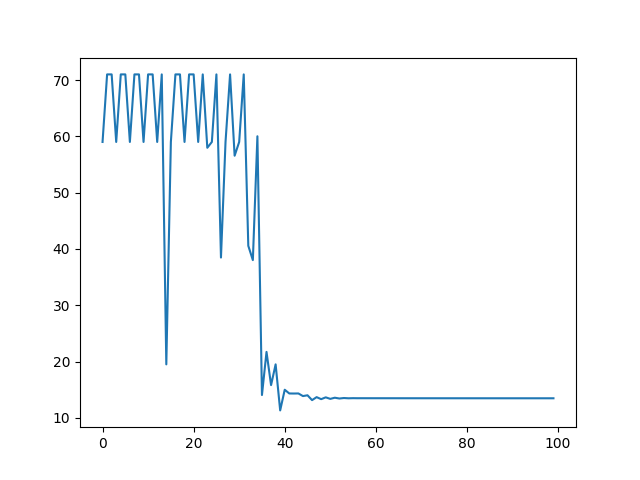
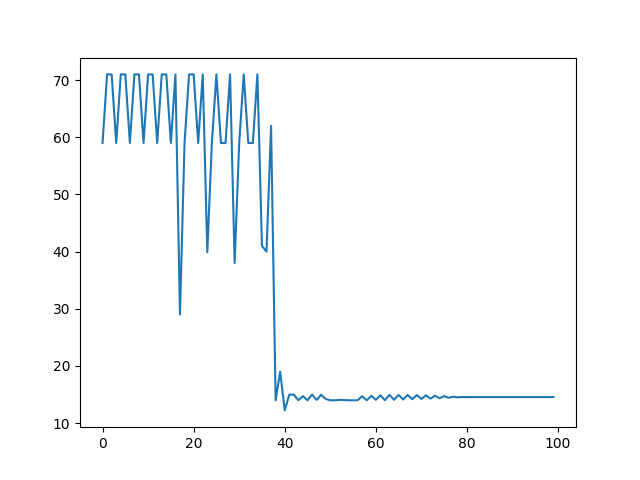
change learning rate

diff --git a/Logistic-Regression.py b/Logistic-Regression.py
@@ -59,7 +59,7 @@ class LogisticRegression(object):
         # w = np.zeros(3) #初始設定w為(0, 0,..., 0)
         w = np.random.rand(14) #初始設定w為(0, 0,..., 0)
         iterations = 100 # 更新100次後停下
-        learning_rate = 0.01 # 更新幅度
+        learning_rate = 0.1 # 更新幅度
 
         costs = [] # 紀錄每次更新權重後新的cost是多少
 
@@ -160,4 +160,3 @@ if __name__ == '__main__':
     else:
         obj = TempData('testData.csv')
     obj.getWeights()
-    
